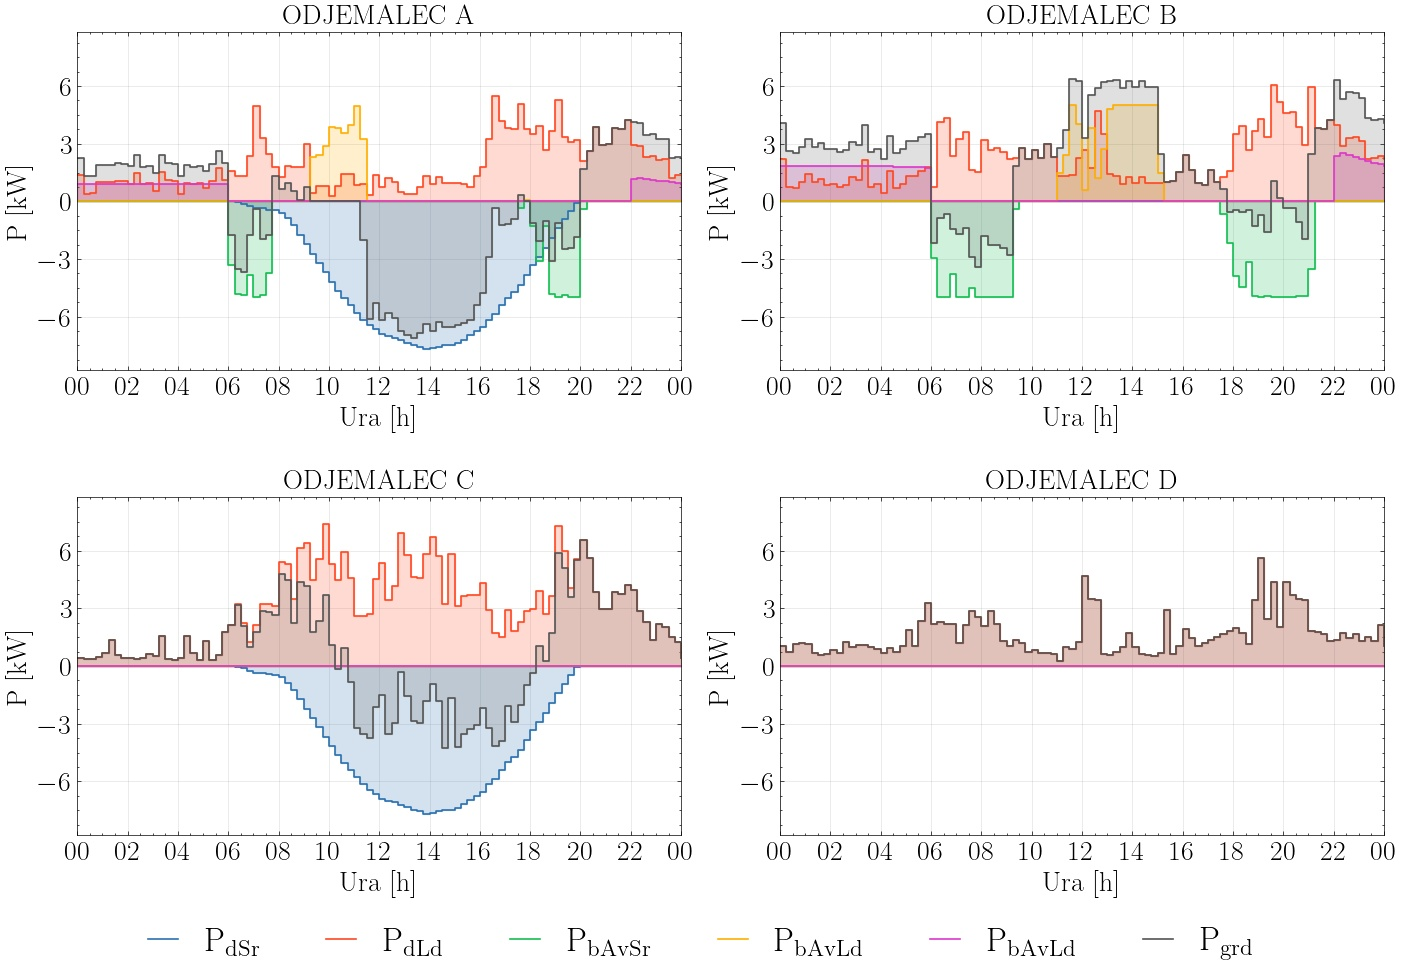
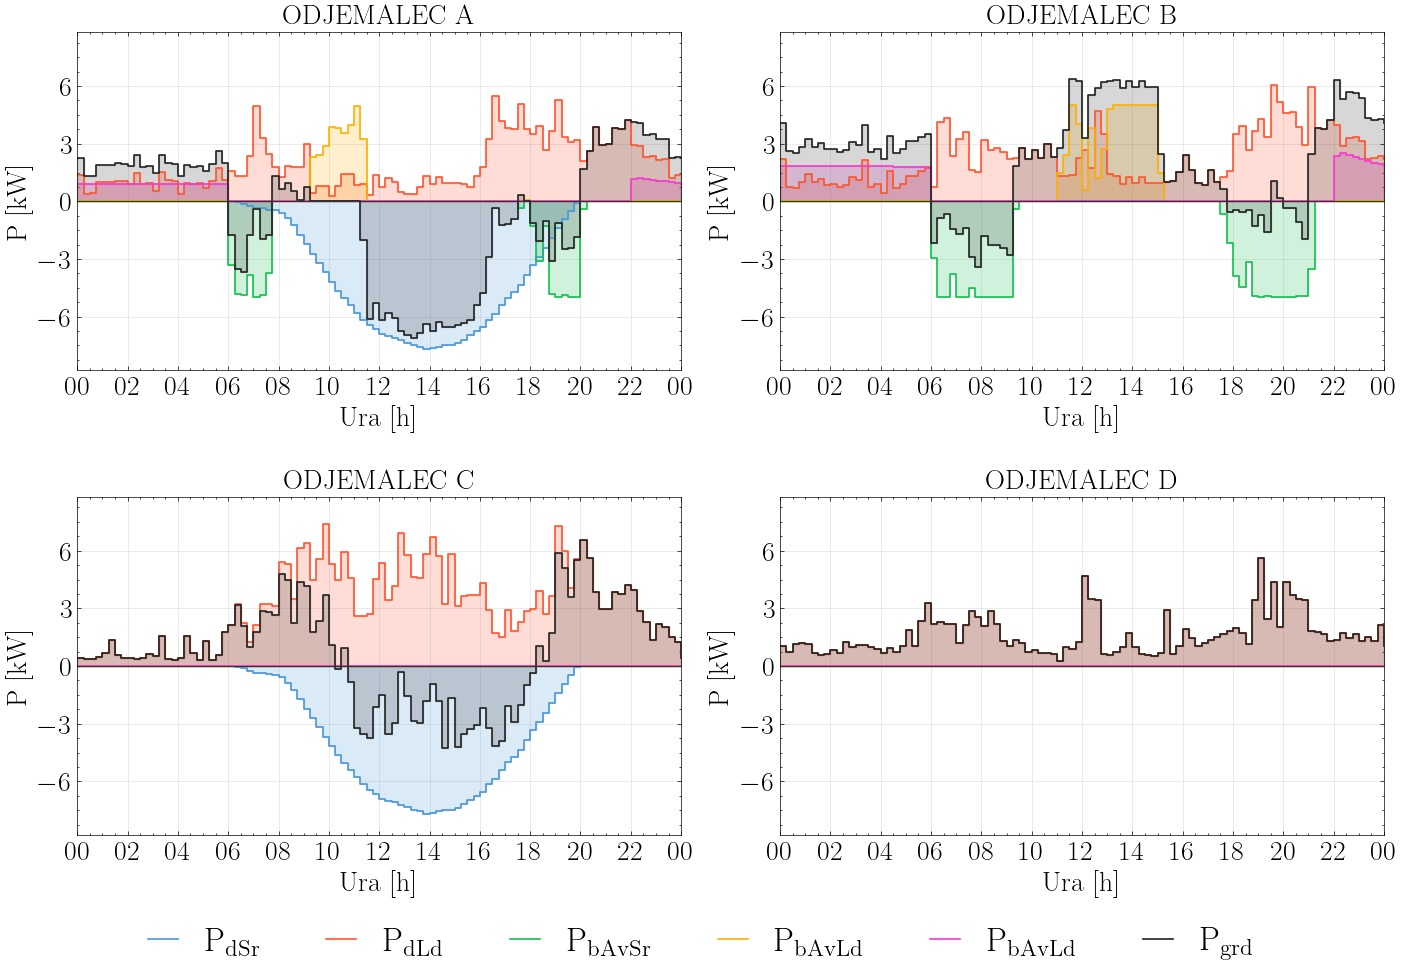
l

diff --git a/SimulatorUser/ExportData/dd.py b/SimulatorUser/ExportData/dd.py
@@ -255,12 +255,13 @@ def drawingPowerSystemGraph(FileDirecotoryUserData, TestNumber, DatetTimeTest, A
 
 def drawingPowerGraph(axs,UserData,PowerLow,PowerHigh,fntSize):
 
+    let=len(UserData[0])
 
-    axs.fill_between(UserData[0],UserData[3], step="post", color="#2C71B0",alpha=0.20)
-    axs.plot(UserData[0],UserData[3],drawstyle="steps-post", color="#2C71B0", alpha=1,linewidth=1.2,label=(r'$\mathrm{P_{dSr}}$'))
+    axs.fill_between(UserData[0],UserData[3], step="post", color="#4b96da",alpha=0.20)
+    axs.plot(UserData[0],UserData[3],drawstyle="steps-post", color="#4b96da", alpha=1,linewidth=1.2,label=(r'$\mathrm{P_{dSr}}$'))
 
-    axs.fill_between(UserData[0],UserData[4], step="post", color="#FF4822",alpha=0.20)
-    axs.plot(UserData[0],UserData[4],drawstyle="steps-post", color="#FF4822", alpha=1,linewidth=1.2,label=(r'$\mathrm{P_{dLd}}$'))
+    axs.fill_between(UserData[0],UserData[4], step="post", color="#ff5430",alpha=0.20)
+    axs.plot(UserData[0],UserData[4],drawstyle="steps-post", color="#ff5430", alpha=1,linewidth=1.2,label=(r'$\mathrm{P_{dLd}}$'))
 
     axs.fill_between(UserData[0],UserData[5], step="post", color="#14be53",alpha=0.20)
     axs.plot(UserData[0],UserData[5],drawstyle="steps-post", color="#14be53", alpha=1,linewidth=1.2,label=(r'$\mathrm{P_{bAvSr}}$'))
@@ -268,14 +269,16 @@ def drawingPowerGraph(axs,UserData,PowerLow,PowerHigh,fntSize):
     axs.fill_between(UserData[0],UserData[6], step="post", color="#ffaf00",alpha=0.20)
     axs.plot(UserData[0],UserData[6],drawstyle="steps-post", color="#ffaf00", alpha=1,linewidth=1.2,label=(r'$\mathrm{P_{bAvLd}}$'))
 
-    axs.fill_between(UserData[0],UserData[7], step="post",color="#dd37cc", alpha=0.20)
-    axs.plot(UserData[0],UserData[7],drawstyle="steps-post", color="#dd37cc", alpha=1,linewidth=1.2,label=(r'$\mathrm{P_{bAvLd}}$'))
+    axs.fill_between(UserData[0],UserData[7], step="post",color="#f538d3", alpha=0.20)
+    axs.plot(UserData[0],UserData[7],drawstyle="steps-post", color="#f538d3", alpha=1,linewidth=1.2,label=(r'$\mathrm{P_{bAvLd}}$'))
 
     Pgrd=np.add(UserData[1],UserData[2])
 
-    axs.fill_between(UserData[0],Pgrd, step="post",color="#555555", alpha=0.18)
-    axs.plot(UserData[0],Pgrd, drawstyle="steps-post",color="#555555", alpha=1,linewidth=1.2,label=(r'$\mathrm{P_{grd}}$'))
+    axs.fill_between(UserData[0],Pgrd, step="post",color="#222222", alpha=0.18)
+    axs.plot(UserData[0],Pgrd, drawstyle="steps-post",color="#222222", alpha=1,linewidth=1.2,label=(r'$\mathrm{P_{grd}}$'))
     
+    axs.plot(UserData[0],[0]*let,color="#343232",linewidth=0.8)
+
     axs.set_xlim(UserData[0][0],UserData[0][len(UserData[0])-1])
 
     axs.xaxis.set_major_formatter(mdates.DateFormatter('%H'))
@@ -308,6 +311,7 @@ def drawingPriceGraph(axs,UserData,PowerLow,PowerHigh,fntSize):
     axs.xaxis.set_major_formatter(mdates.DateFormatter('%H'))
     axs.xaxis.set_major_locator(mdates.HourLocator(interval = 4))
     axs.yaxis.set_major_locator(MaxNLocator(integer=True))
+
     axs.grid(b=True, which='major', color='#444444', linestyle='-', alpha=0.2)
 
     axs.set_xlim(UserData[0][0],UserData[0][len(UserData[0])-1])
@@ -344,7 +348,7 @@ def drawingSOCGraaph(FileDirecotoryUserData, TestNumber, DatetTimeTest, ArrUserN
 
     with plt.style.context(['science', 'grid']):
 
-        colorArray=["#2C71B0","#FF4822","#14be53","orange","#dd37cc","#555555"]
+        colorArray=["#4b96da","#ff5430","#14be53","#ffaf00","#f538d3","#222222"]
     
         fntSize=24
 
